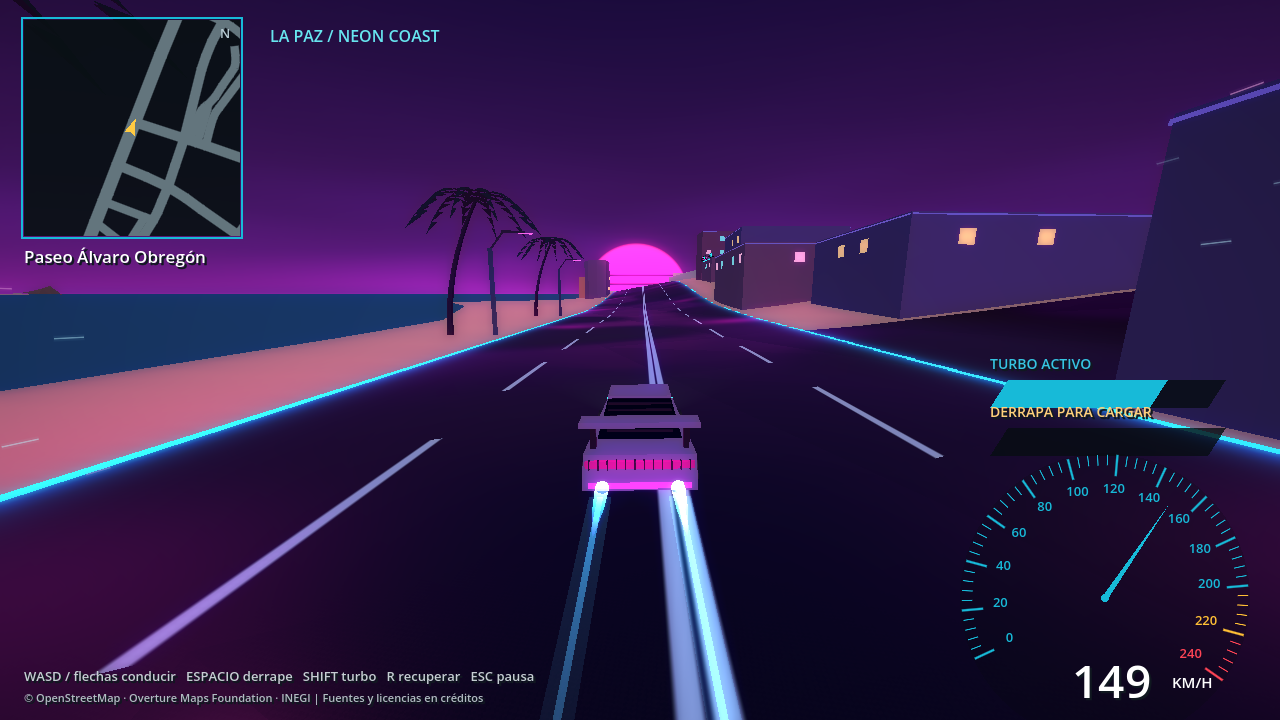
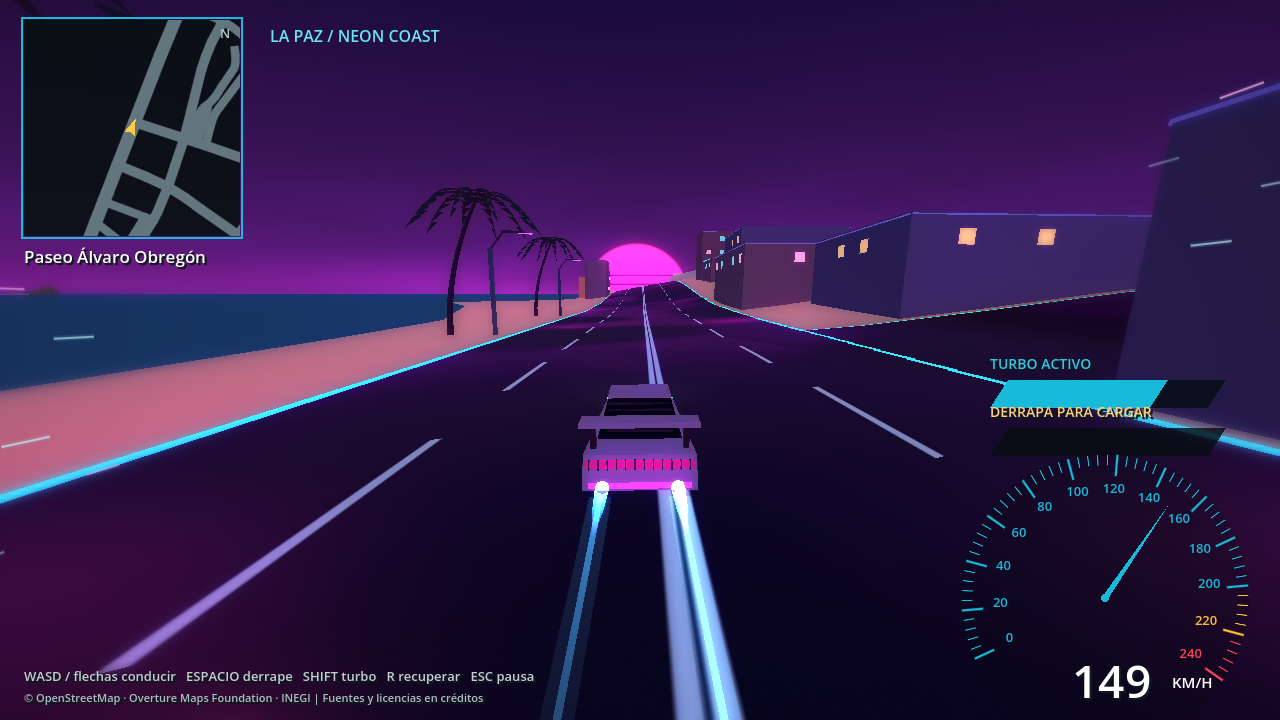
Follow elevated asphalt boundaries, refine speed blur and remove invented signs

diff --git a/docs/PHASE_E_MOTION.md b/docs/PHASE_E_MOTION.md
@@ -1,5 +1,18 @@
 # Fase E — refinamiento de movimiento y contraste
 
+## Corrección posterior — relieve, velocidad y rótulos
+
+- Los bordes cian ahora se generan desde las aristas externas de la malla vial elevada (`RoadNeon.gd`), con un pequeño desplazamiento de 1,8 cm para evitar parpadeo por superposición. Se eliminan aristas compartidas y cortes artificiales de sector. Se conserva la malla física. La aplicación sigue limitada al sector piloto; no se ha extendido el estilo al mapa completo.
+- Las líneas periféricas pasan de 1,25 a 1,8 px, aumentan moderadamente su longitud y su opacidad máxima de 0,48 a 0,68. Conservan las zonas de exclusión de carretera y HUD.
+- Turbo añade desenfoque lateral gradual con mipmaps en el posprocesado existente. El centro permanece enfocado y los instrumentos se dibujan después. F4 también regula este efecto; al soltar turbo se desvanece.
+- `CAFÉ / LA PAZ`, `BAHÍA · 24H` y `NOCHE AZUL` eran textos decorativos inventados, sin procedencia geográfica. Se retiran los tres. Los acentos geométricos de neón permanecen sin nombres; futuros rótulos comerciales deberán tener fuente y correspondencia verificable con el edificio.
+- `phase_e_road_neon.gd`: PASS en superficie inclinada, cuatro bordes exteriores y ninguna diagonal interna; desviación respecto al plano y separación prevista menor de 0,000001 m. Verificación de exclusión del corte entre sectores.
+- `phase_e_motion.gd`: PASS incluyendo activación/desaparición del desenfoque, ausencia de rótulos inventados y presencia de bordes elevados. `phase_e_retro.gd`: PASS, misma trayectoria, F8 y recarga. Capturas reales de conducción y sector actualizadas y revisadas.
+
+Rendimiento: primera medición con lectura adicional de pantalla, +18,33 % sobre la escena diurna (fuera del margen de 15 %); se conserva en `phase_e_blur_initial_benchmark.json`. Tras reutilizar el mip del resplandor existente, la medición final con turbo dio 2,937 ms frente a 2,667 ms (+10,14 %, PASS), p95 4,110 ms y pico aislado 40,973 ms. No garantiza ausencia de tirones ni rendimiento equivalente en toda la ciudad.
+
+Las cifras de la sección original siguiente son históricas; el informe de turbo se actualiza con esta revisión.
+
 ## Alcance y dirección
 
 Prioridad del usuario: refinar estela de turbo y líneas dinámicas; posponer el modelo del coche para Blender. Se conservan controlador, cámara, geografía, colisiones, streaming y carrocería de la revisión anterior. Música fuera de este trabajo.
